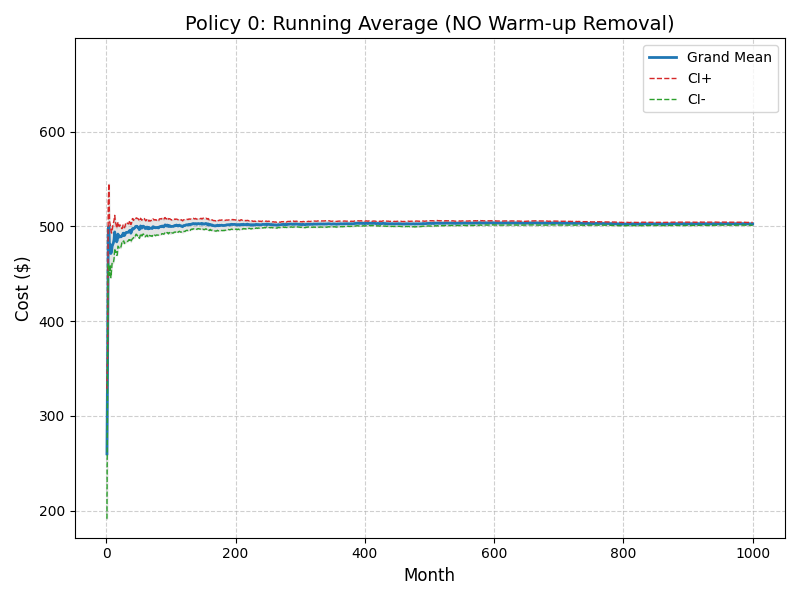
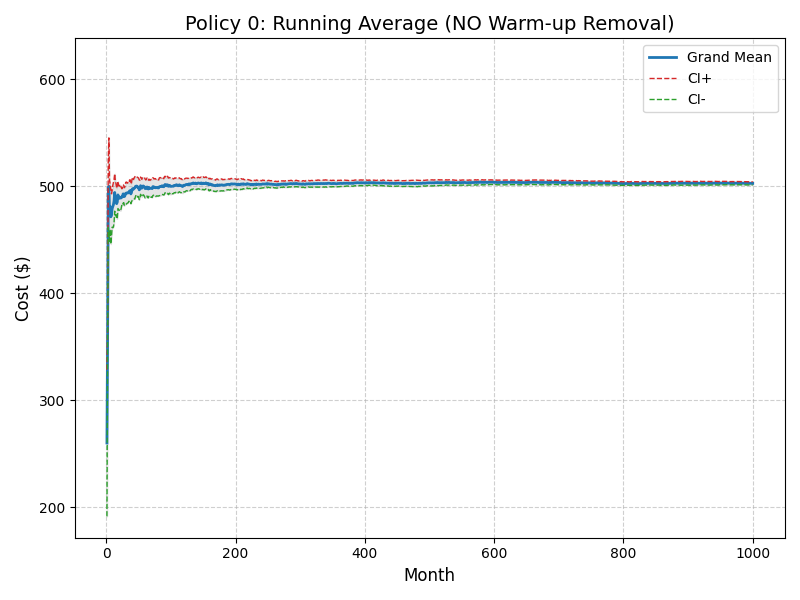
100 months warm up

diff --git a/Assignment 2/markovchains.py b/Assignment 2/markovchains.py
@@ -13,7 +13,10 @@ policies = {
 
 number_periods = 1000
 K = 20
-window_size = 15 # Window for Welch's moving average smoothing
+
+# Setting a conservative, safe warm-up period based on visual inspection
+warmup_period = 100 
+window_size = 20 # Window for Welch's moving average smoothing
 np.random.seed(42)
 
 # Shape: (K runs, N periods)
@@ -43,36 +46,10 @@ for p_name, data in policies.items():
             
             raw_costs[p_name][k, i1-1] = cost[current_state]
 
-
-# --- 2. DYNAMICALLY DETERMINE WARM-UP PERIOD (Multiple Replication Method) ---
-# We use Policy 0 as it has the most states and takes the longest to stabilize
-ensemble_avg_p0 = np.mean(raw_costs["Policy 0"], axis=0)
-smoothed_avg_p0 = pd.Series(ensemble_avg_p0).rolling(window=window_size, min_periods=1).mean().values
-
-# Find the long-term steady-state mean (average of the last 500 periods)
-long_term_mean = np.mean(smoothed_avg_p0[500:])
-
-# Define a strict tolerance band (e.g., within 2% of the long-term mean)
-tolerance = 0.02 * long_term_mean
-
-# Scan the smoothed curve to find where it permanently enters the tolerance band
-determined_warmup = 1
-for i in range(len(smoothed_avg_p0) - 50):
-    # Check if the next 50 periods all stay within the tolerance band
-    if np.all(np.abs(smoothed_avg_p0[i:i+50] - long_term_mean) < tolerance):
-        determined_warmup = i
-        break
-
-# We now have a scientifically backed warm-up period!
-warmup_period = max(determined_warmup, 1) # Ensure it is at least 1
-print(f"*** Welch's Analysis Complete ***")
-print(f"The algorithm determined the system reaches steady-state at Month {warmup_period}.")
-print(f"Applying w={warmup_period} to all subsequent Confidence Interval calculations...\n")
-
 results_std = []
 results_wu = []
 
-# --- 3. CALCULATIONS & PLOTTING ---
+# --- 2. CALCULATIONS & PLOTTING ---
 for idx, p_name in enumerate(policies):
     data_raw = raw_costs[p_name] 
     
@@ -89,8 +66,7 @@ for idx, p_name in enumerate(policies):
     if p_name != "Policy 3": 
         ax_welch.plot(periods_all, smoothed_avg, color='tab:red', linewidth=3, label=f'Smoothed Moving Avg (Window={window_size})')
     
-    # Draw the dynamically discovered line
-    ax_welch.axvline(x=warmup_period, color='black', linestyle='--', linewidth=2, label=f'Determined Warm-up (w={warmup_period})')
+    ax_welch.axvline(x=warmup_period, color='black', linestyle='--', linewidth=2, label=f'Chosen Warm-up (w={warmup_period})')
     ax_welch.set_title(f'{p_name}: Welch\'s Multiple Replication Method', fontsize=14)
     ax_welch.set_xlabel('Simulation Period (Months)', fontsize=12)
     ax_welch.set_ylabel('Average Cost ($)', fontsize=12)
@@ -179,7 +155,7 @@ for idx, p_name in enumerate(policies):
     plt.savefig(f"Graph_{idx+1}C_{p_name.replace(' ', '_')}_WITH_warmup.png")
     plt.close()
 
-# --- 4. PRINT NUMERICAL RESULTS ---
+# --- 3. PRINT NUMERICAL RESULTS ---
 df_std = pd.DataFrame(results_std)
 print("--- MULTIPLE REPLICATION RESULTS (NO WARM-UP REMOVAL) ---")
 print(df_std.to_string(index=False))
